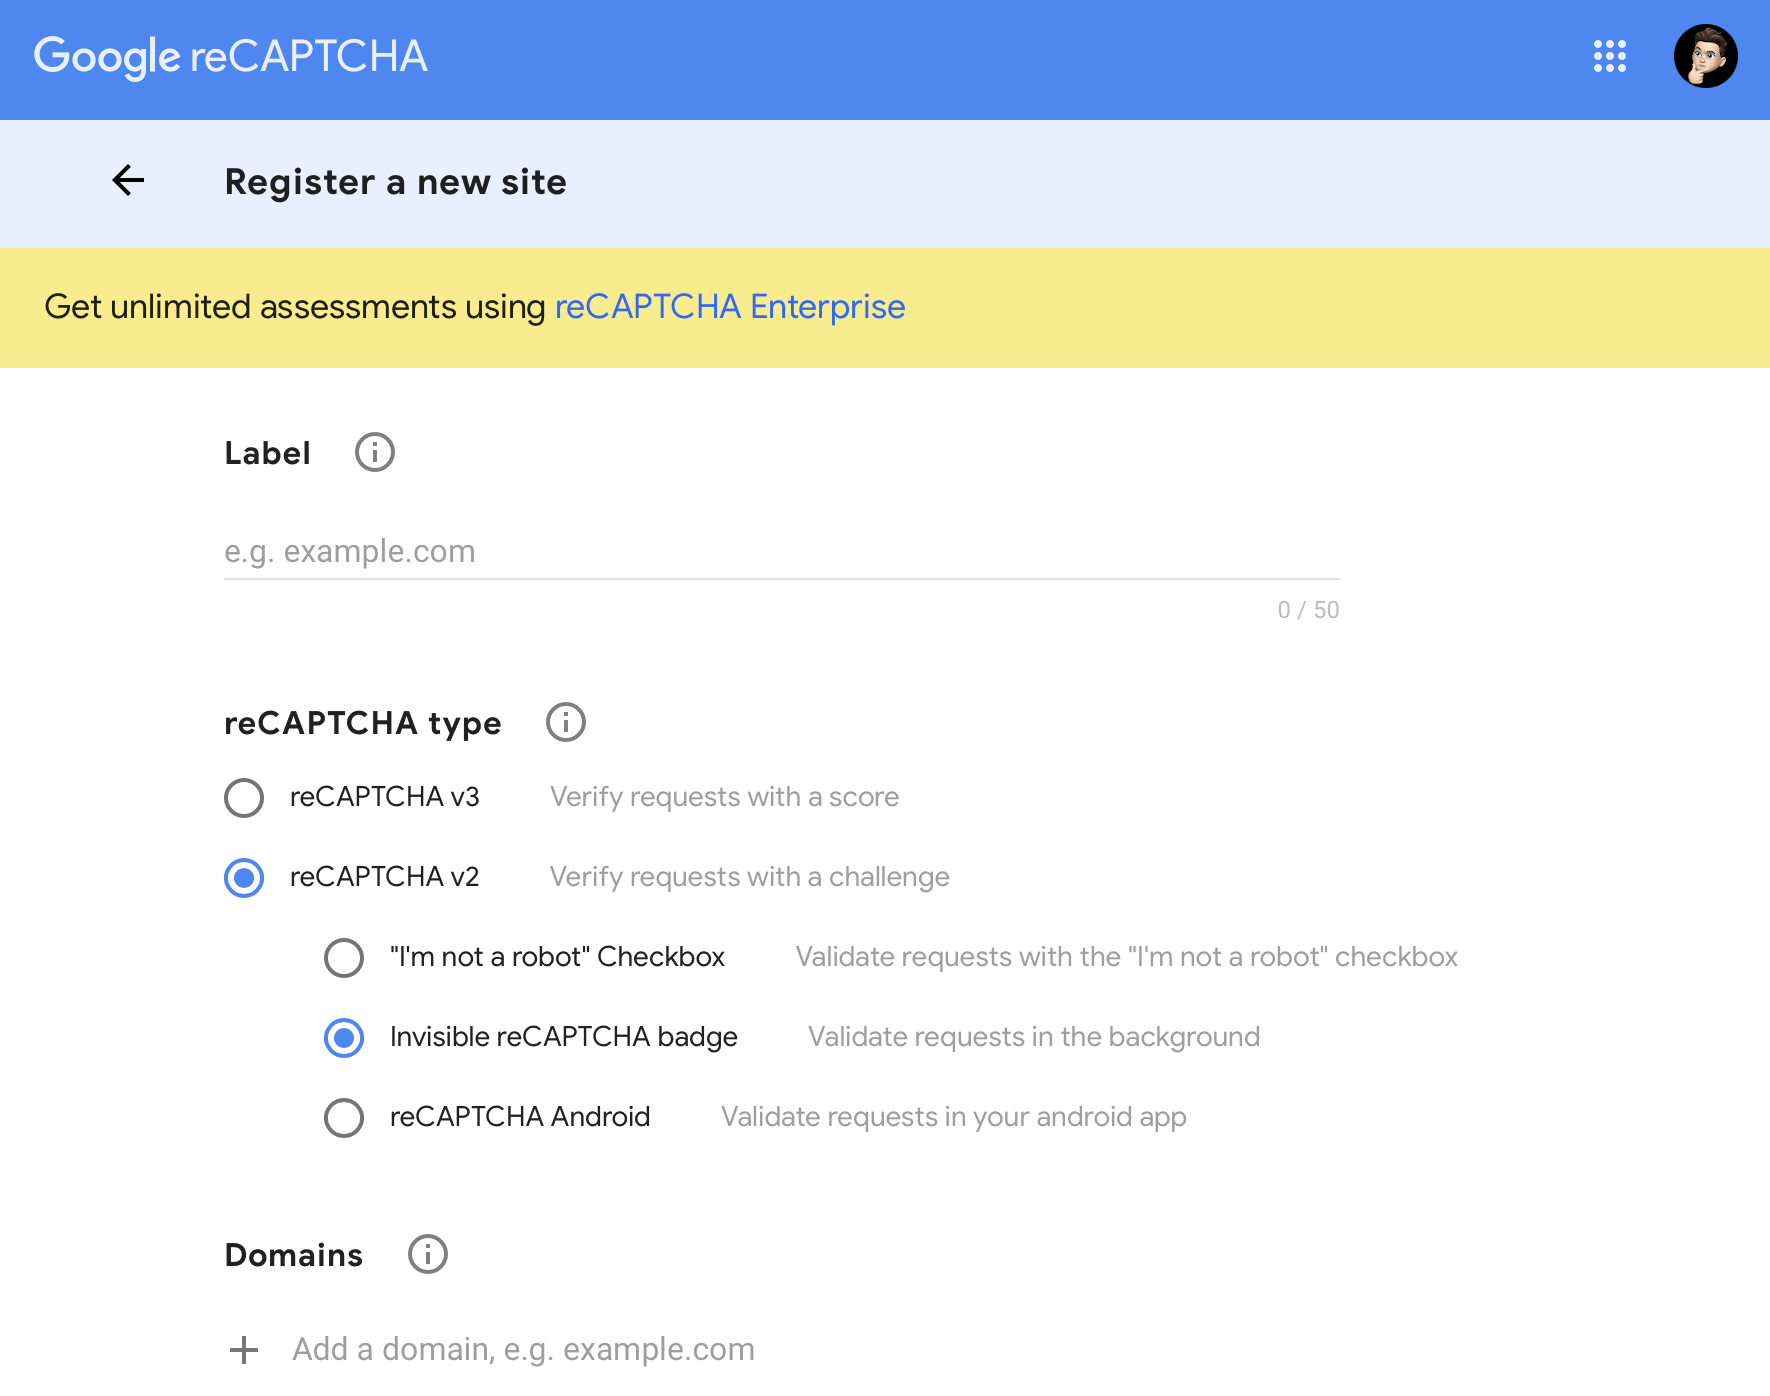
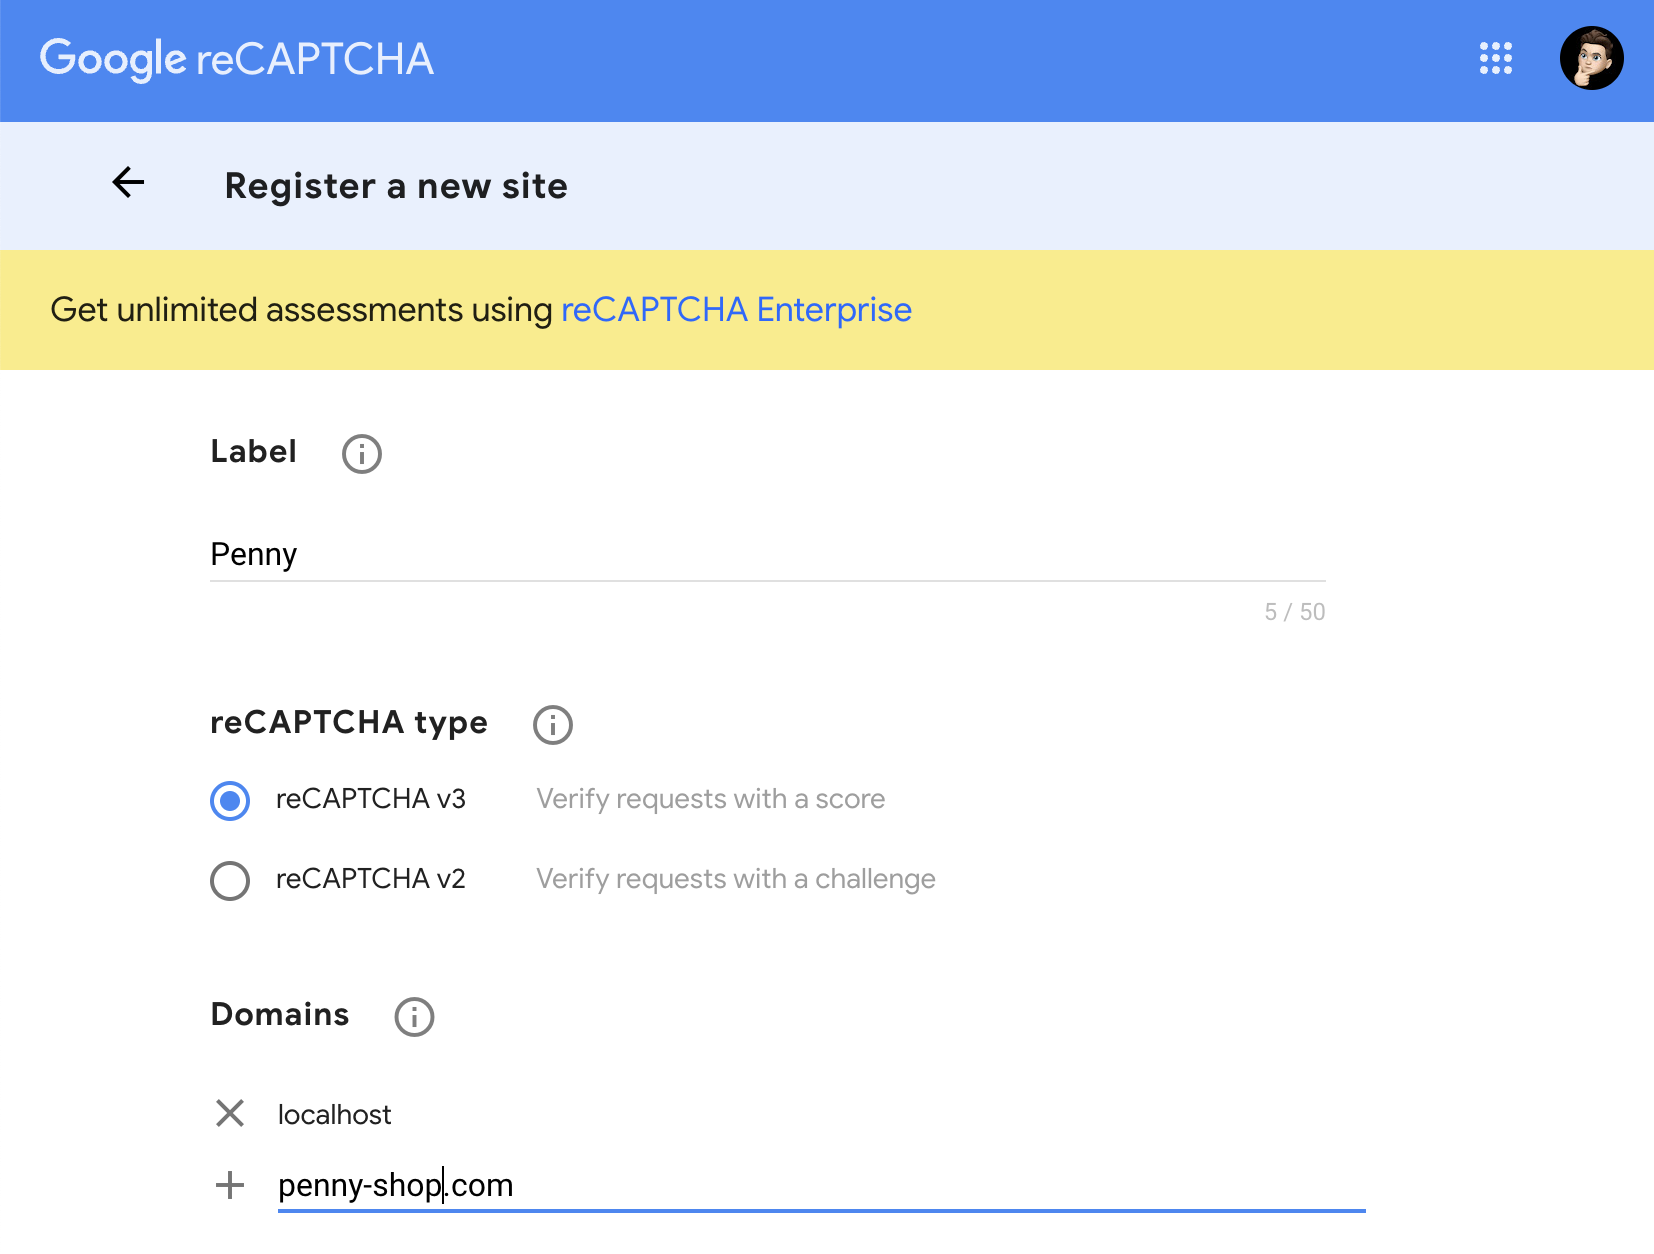
update docs

diff --git a/README.md b/README.md
@@ -546,8 +546,8 @@ prevent abuse of the contact form, the newsletter signup form, and the account r
    [visit Google's ReCAPTCHA site registration page](https://www.google.com/recaptcha/admin/create).
 
 - [Log into Google's reCAPTCHA admin](https://www.google.com/recaptcha/admin) and create your site (or select it, if you
-  already have one). It's important that you select `reCAPTCHA v2` and the `Invisible reCAPTCHA badge` option for Penny
-  to work as intended. Whitelist any domains you know you'll need at this time. Don't worry, this can be changed later.
+  already have one). It's important that you select `reCAPTCHA v3` for Penny to work as intended. Whitelist any domains
+  you know you'll need at this time. Don't worry, this can be changed later.
 
 ![A screenshot of the reCAPTCHA admin page, where you can select your site.](/readme-images/reCAPTCHA/create-site-recaptcha.png)
 
